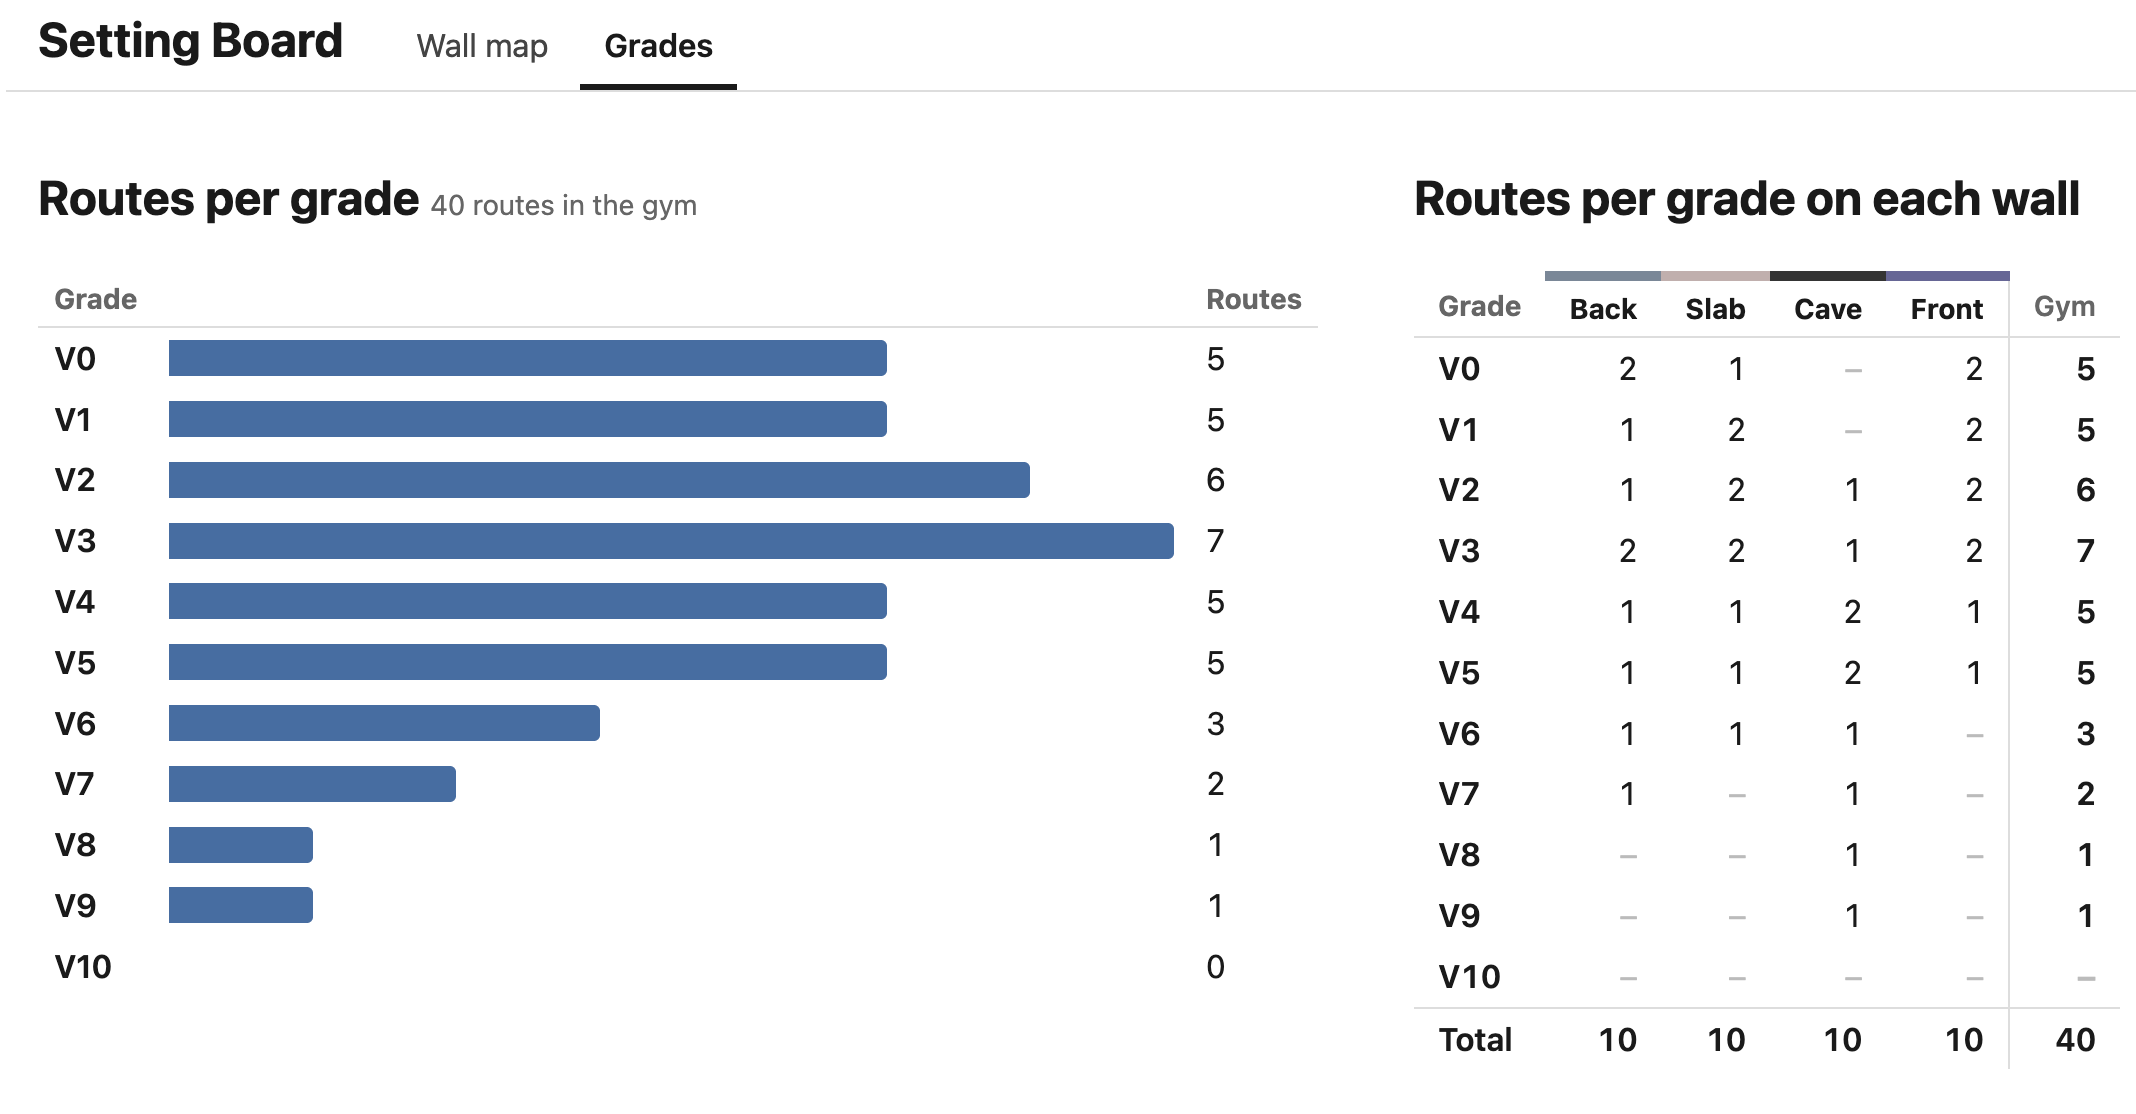
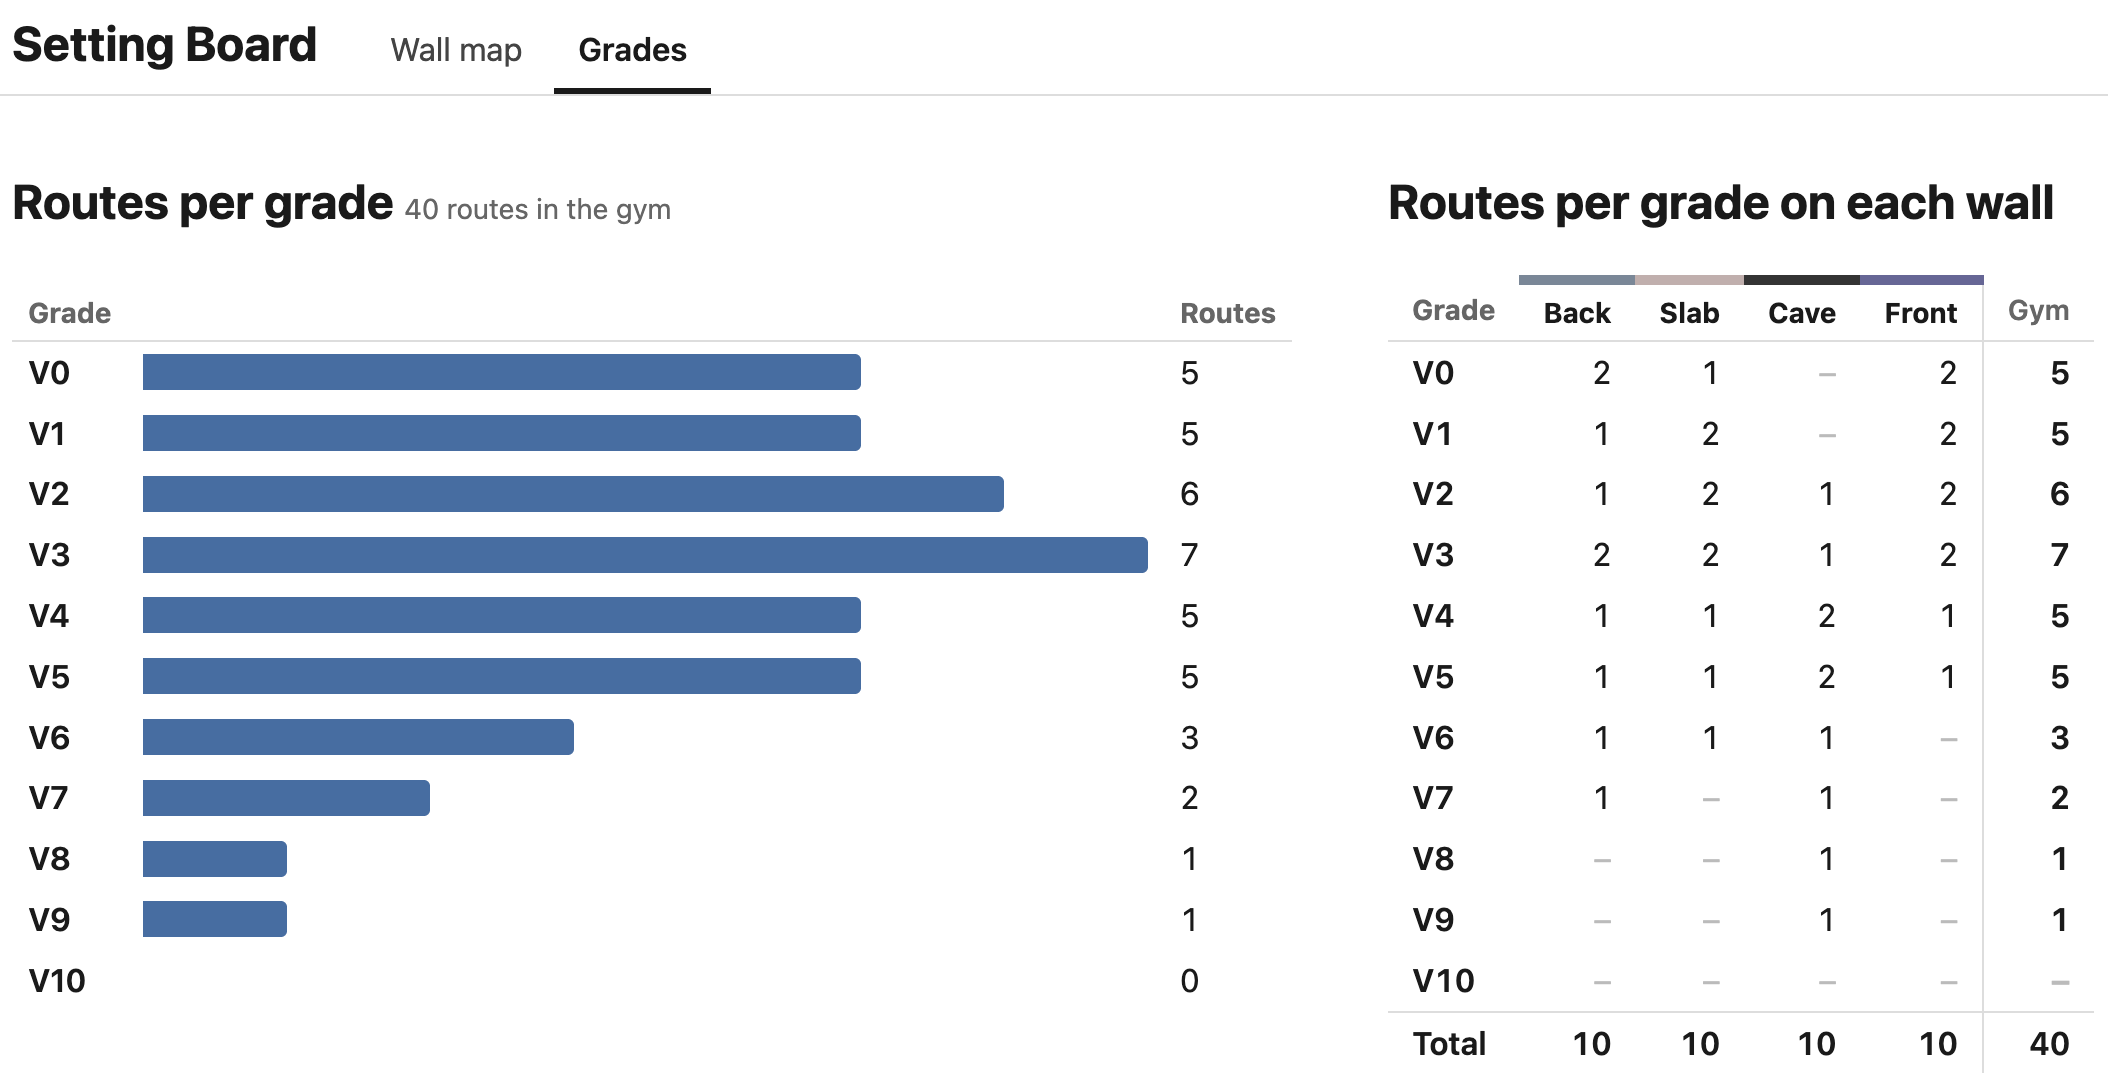
chore: seed route history and update README
- Add a past reset rotation to the seed schedule, so each wall has a
previous reset to retire routes from
- Document that routes are retired rather than deleted, and the
rules the database enforces

diff --git a/db/seeds.rb b/db/seeds.rb
@@ -7,21 +7,30 @@ WallSection::NAMES_BY_ID.each do |id, name|
 end
 
 # Sample reset schedule: usually one wall a week on a Monday, in id order (Back, Slab, Cave, Front, then
-# Back again). Two weeks break the pattern: Slab's reset moves to the Tuesday for an event, and nothing is
-# reset in Christmas week. Existing resets are left alone, so re-seeding never duplicates or overwrites them.
+# Back again), starting with a past rotation so there is route history. Two weeks break the pattern: Slab's
+# reset moves to the Tuesday for an event, and nothing is reset in Christmas week. Existing resets are left
+# alone, so re-seeding never duplicates or overwrites them.
 {
-  "Back"  => [ "2026-10-26", "2026-11-23", "2026-12-28" ],
-  "Slab"  => [ "2026-11-02", "2026-12-01", "2027-01-04" ], # 1 Dec is a Tuesday, moved from Monday 30 Nov
-  "Cave"  => [ "2026-11-09", "2026-12-07" ],
-  "Front" => [ "2026-11-16", "2026-12-14" ]                # then no reset the week of 21 Dec
+  "Back"  => [ "2026-09-28", "2026-10-26", "2026-11-23", "2026-12-28" ],
+  "Slab"  => [ "2026-10-05", "2026-11-02", "2026-12-01", "2027-01-04" ], # 1 Dec is a Tuesday, moved from Monday 30 Nov
+  "Cave"  => [ "2026-10-12", "2026-11-09", "2026-12-07" ],
+  "Front" => [ "2026-10-19", "2026-11-16", "2026-12-14" ]                # then no reset the week of 21 Dec
 }.each do |section_name, dates|
   wall_section = WallSection.find_by!(name: section_name)
   dates.each { |date| wall_section.resets.find_or_create_by!(reset_on: Date.parse(date)) }
 end
 
 # Sample routes, only added when there are none so re-seeding never duplicates or overwrites real data.
-# Every route on a wall is replaced on its reset day, so each set date is that wall's latest reset.
+# Each wall gets the routes from its previous reset, retired with WallSection#reset! on its latest reset,
+# then the routes up now, set on that latest reset.
 if Route.none?
+  previous_routes = {
+    "Back"  => [ [ 1, "Green", "Marco" ], [ 2, "Red", "Priya" ], [ 3, "Blue", "Jules" ], [ 4, "Yellow", "Marco" ], [ 6, "Pink", "Priya" ], [ 8, "Black", "Jules" ] ],
+    "Slab"  => [ [ 0, "Blue", "Tomas" ], [ 1, "White", "Jules" ], [ 2, "Red", "Priya" ], [ 2, "Purple", "Tomas" ], [ 3, "Orange", "Jules" ], [ 5, "Green", "Priya" ] ],
+    "Cave"  => [ [ 3, "Pink", "Marco" ], [ 5, "Blue", "Tomas" ], [ 6, "Yellow", "Marco" ], [ 7, "Green", "Tomas" ], [ 8, "Red", "Marco" ], [ 10, "Black", "Tomas" ] ],
+    "Front" => [ [ 0, "White", "Jules" ], [ 1, "Red", "Priya" ], [ 2, "Green", "Tomas" ], [ 3, "Yellow", "Jules" ], [ 4, "Orange", "Priya" ], [ 4, "Pink", "Tomas" ] ]
+  }
+
   {
     "Back" => [
       [ 0, "Yellow", "Priya" ], [ 0, "Green",  "Priya" ], [ 1, "Pink",   "Marco" ], [ 2, "Blue",   "Marco" ],
@@ -46,10 +55,17 @@ if Route.none?
   }.each do |section_name, routes|
     wall_section = WallSection.find_by!(name: section_name)
     set_date = wall_section.last_reset_on
-
-    routes.each do |grade, colour, setter_name|
-      setter = Setter.find_or_create_by!(name: setter_name)
-      wall_section.routes.create!(grade:, colour:, set_date:, setter:)
+    previous_set_date = wall_section.last_reset_on(set_date.prev_day)
+    create_routes = lambda do |list, date|
+      list.each do |grade, colour, setter_name|
+        wall_section.routes.create!(grade:, colour:, set_date: date, setter: Setter.find_or_create_by!(name: setter_name))
+      end
     end
+
+    if previous_set_date
+      create_routes.call(previous_routes.fetch(section_name), previous_set_date)
+      wall_section.reset!(on: set_date)
+    end
+    create_routes.call(routes, set_date)
   end
 end

diff --git a/README.md b/README.md
@@ -22,11 +22,13 @@ Each week a climbing gym strips one wall and sets new routes on it. Head setters
 ## Other design decisions
 
 - **No front-end build step.** The map is plain SVG rendered on the server. Markers are spaced evenly along each wall's path, with a gap at the ends so markers on walls that meet at a corner don't overlap (`FloorPlan::Wall#marker_positions`).
-- **Repeatable seeds.** `db:seed` is idempotent: it never duplicates or overwrites routes or resets, and CI runs it on every push.
+- **Routes are retired, never deleted.** When a wall is reset, `WallSection#reset!` stamps its routes with `retired_on` and records the date the reset really happened, in one transaction. History is stored rather than calculated from the schedule, so moving a planned reset never rewrites the past, and `Route.on(date)` gives the routes up on any day.
+- **Rules enforced by the database too.** Foreign keys, NOT NULL columns, unique indexes and check constraints (grades V0–V10, no route retired before it was set) back up the model validations, and tests insert bad rows directly to prove the database rejects them.
+- **Repeatable seeds.** `db:seed` is idempotent: it never duplicates or overwrites routes or resets, and CI runs it on every push. The seeds include a past rotation of retired routes, so there's history to query.
 
 ## Quality checks
 
-CI runs on every push and pull request. It runs RuboCop, Brakeman, bundler-audit, an importmap audit, the model and controller tests, and the seeds. Dependabot keeps gems and GitHub Actions up to date.
+CI runs on every push and pull request. It runs RuboCop, Brakeman, bundler-audit, an importmap audit, the model, controller and system tests, and the seeds. Dependabot keeps gems and GitHub Actions up to date.
 
 ## Run it
 
@@ -44,7 +46,8 @@ Then open http://localhost:3000.
 It's read-only for now, with no sign-in or forms. In priority order:
 
 1. **Compare the grade distribution with a target mix**, so the Grades tab shows which grades are over- or under-set.
-2. **Forms and authentication**, so setters can add and retire routes and plan, move and skip resets. Today resets are entered through seeds or the console.
-3. **Route positions on each wall**, to flag a repeated grade on the same stretch of wall.
-4. **Climber sends**, to compare how often each setter's routes get climbed.
-5. **Deploy** with the included Kamal setup.
+2. **Forms and authentication**, so setters can add routes, record resets, and plan, move and skip them. Today resets are recorded in the console with `WallSection#reset!`.
+3. **Grade mix over time** on the Grades tab, using the stored route history.
+4. **Route positions on each wall**, to flag a repeated grade on the same stretch of wall.
+5. **Climber sends**, to compare how often each setter's routes get climbed.
+6. **Deploy** with the included Kamal setup.
